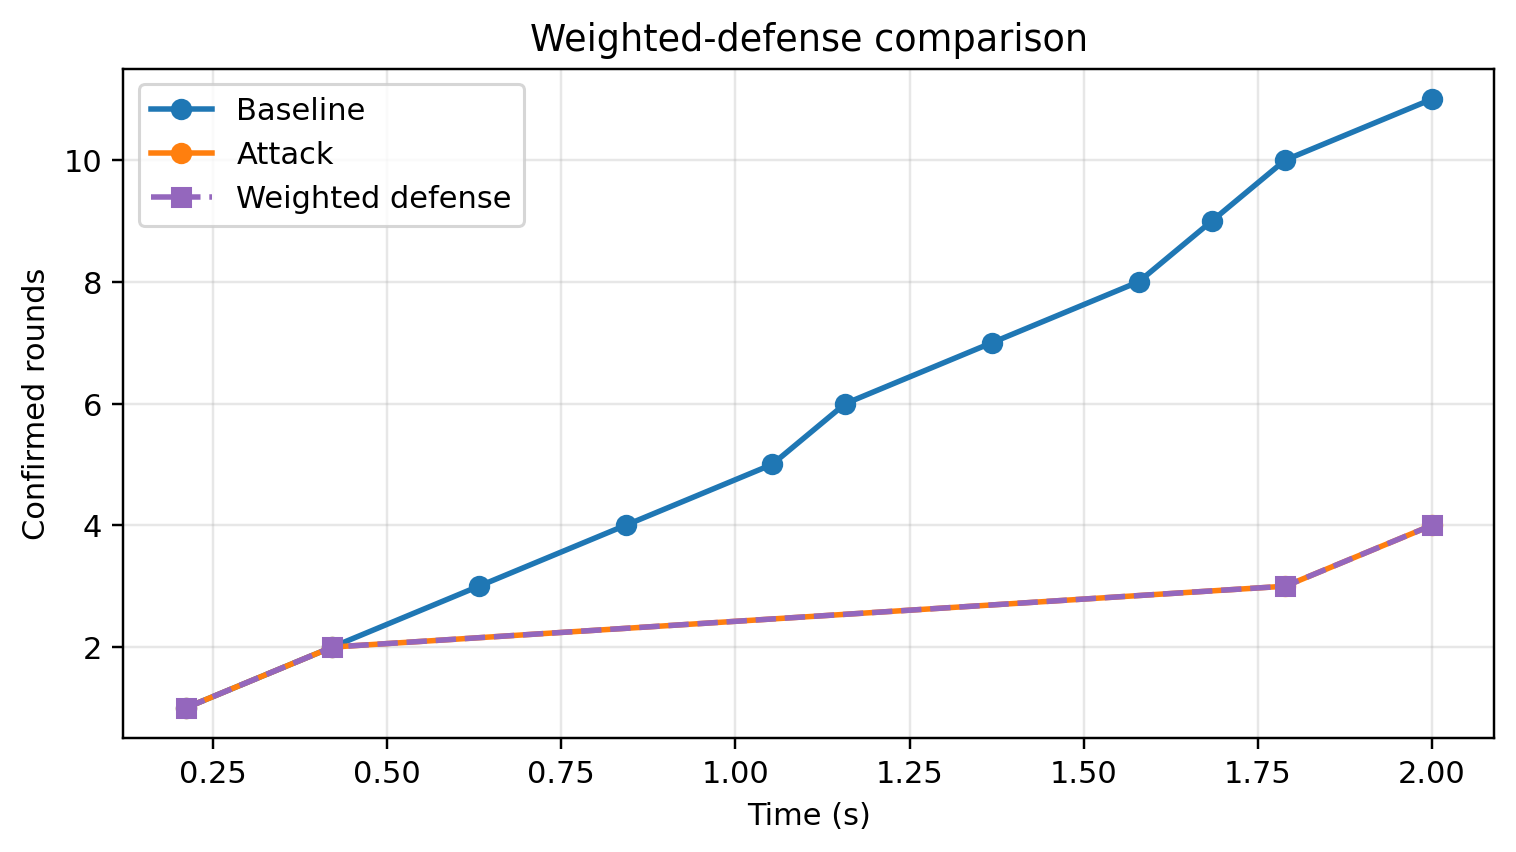
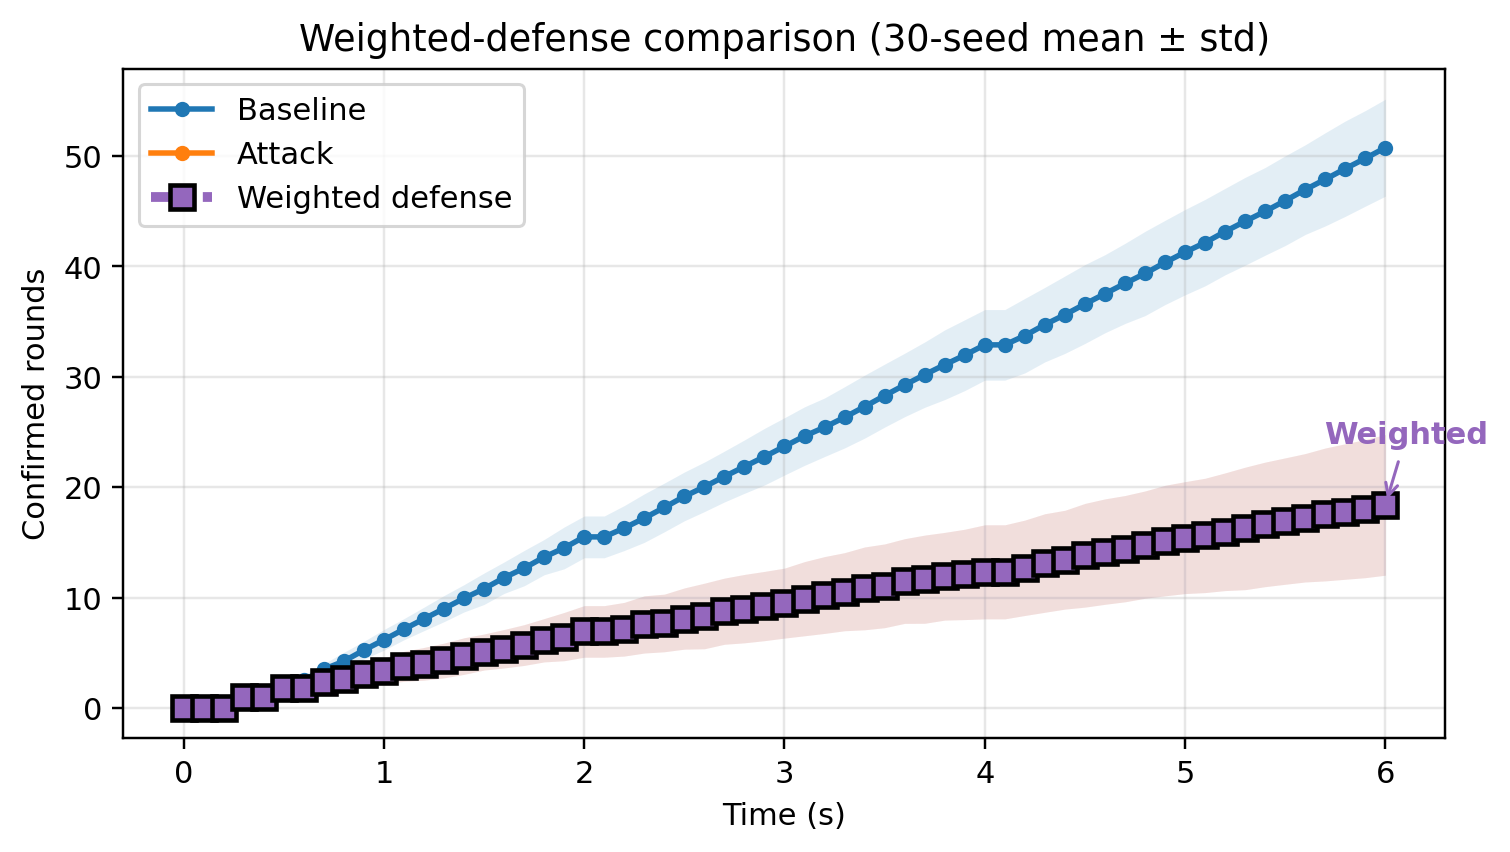
major changes to other issues as addressed in the paper

diff --git a/experiments/run_experiments.py b/experiments/run_experiments.py
@@ -199,7 +199,7 @@ def save_figure(fig, path):
     plt.close(fig)
 
 
-def generate_plots(plot_dir):
+def generate_plots(plot_dir, seeds=30):
     plot_dir.mkdir(parents=True, exist_ok=True)
 
     fig1, ax1 = plt.subplots(figsize=(7, 4))
@@ -292,25 +292,83 @@ def generate_plots(plot_dir):
     scenarios_to_plot = ["baseline", "attack", "weighted"]
     colors = {"baseline": "tab:blue", "attack": "tab:orange", "weighted": "tab:purple"}
     for scenario in scenarios_to_plot:
-        result = run_once(100, scenario, seed=0, sim_time=6.0)
-        times = [t for _, t in result["confirmation_times"]]
-        cumulative = list(range(1, len(times) + 1))
-        ax4.plot(
-            times,
-            cumulative,
-            linewidth=1.8,
+        time_grid, mean_series, std_series = aggregate_confirmed_series(100, scenario, seeds, sim_time=6.0, dt=0.1)
+        if scenario == "weighted":
+            ax4.plot(
+                time_grid,
+                mean_series,
+                linewidth=4.0,
+                color=colors[scenario],
+                linestyle="--",
+                marker="s",
+                markersize=10,
+                markeredgewidth=1.8,
+                markeredgecolor="black",
+                markerfacecolor="white",
+                label="Weighted defense",
+                zorder=6,
+            )
+            ax4.annotate(
+                "Weighted",
+                xy=(time_grid[-1], mean_series[-1]),
+                xytext=(-28, 20),
+                textcoords="offset points",
+                color=colors[scenario],
+                fontsize=11,
+                fontweight="bold",
+                arrowprops={"arrowstyle": "->", "color": colors[scenario], "lw": 1.5},
+                zorder=7,
+            )
+        else:
+            ax4.plot(
+                time_grid,
+                mean_series,
+                linewidth=2.0,
+                color=colors[scenario],
+                linestyle="-",
+                marker="o",
+                markersize=4,
+                alpha=0.45 if scenario == "attack" else 0.8,
+                label=scenario.capitalize(),
+                zorder=3 if scenario == "attack" else 2,
+            )
+        ax4.fill_between(
+            time_grid,
+            [m - s for m, s in zip(mean_series, std_series)],
+            [m + s for m, s in zip(mean_series, std_series)],
             color=colors[scenario],
-            linestyle="-" if scenario != "weighted" else "--",
-            marker="o" if scenario != "weighted" else "s",
-            label=scenario.capitalize() if scenario != "weighted" else "Weighted defense",
-            zorder=3 if scenario == "attack" else 2,
+            alpha=0.1,
+            linewidth=0,
+            zorder=5 if scenario == "weighted" else 1,
         )
     ax4.set_xlabel("Time (s)")
     ax4.set_ylabel("Confirmed rounds")
-    ax4.set_title("Weighted-defense comparison")
+    ax4.set_title("Weighted-defense comparison (30-seed mean ± std)")
     ax4.grid(True, alpha=0.3)
     ax4.legend()
     save_figure(fig4, plot_dir / "figure4_weighted_defense_comparison.png")
+
+
+def confirmed_counts_at_times(result, time_grid):
+    confirmation_times = [t for _, t in result["confirmation_times"]]
+    counts = []
+    idx = 0
+    for t in time_grid:
+        while idx < len(confirmation_times) and confirmation_times[idx] <= t:
+            idx += 1
+        counts.append(idx)
+    return counts
+
+
+def aggregate_confirmed_series(N, scenario, seeds, sim_time, dt=0.1):
+    time_grid = [round(i * dt, 8) for i in range(int(sim_time / dt) + 1)]
+    seed_series = []
+    for seed in range(seeds):
+        result = run_once(N, scenario, seed, sim_time)
+        seed_series.append(confirmed_counts_at_times(result, time_grid))
+    mean_series = [safe_mean(values) for values in zip(*seed_series)]
+    std_series = [safe_std(values) for values in zip(*seed_series)]
+    return time_grid, mean_series, std_series
 
 
 def safe_mean(xs):
@@ -394,7 +452,7 @@ def main():
     print(f"Wrote {table_out}")
 
     plot_dir = Path(args.plot_dir)
-    generate_plots(plot_dir)
+    generate_plots(plot_dir, seeds=args.seeds)
     print(f"Wrote plots to {plot_dir}")
 
 

diff --git a/src/attacker.py b/src/attacker.py
@@ -1,22 +1,97 @@
-import random
+# import random
 
+
+# class Attacker:
+#     def __init__(self, malicious_nodes):
+#         """malicious_nodes: set of node_ids that are malicious."""
+#         self.malicious_nodes = set(malicious_nodes)
+
+#     def is_malicious(self, node_id):
+#         return node_id in self.malicious_nodes
+
+#     def filter_parents(self, node_id, candidate_parents, dag, k=2):
+#         """Selective reference censorship: a malicious node references
+#         only tips created by other malicious nodes. If no malicious tip
+#         exists yet (e.g. at startup) it falls back to the honestly-drawn
+#         candidates so it can still produce a syntactically valid block."""
+#         if not self.is_malicious(node_id):
+#             return candidate_parents
+
+#         malicious_tips = [
+#             uid for uid in dag.tips()
+#             if dag.graph.nodes[uid].get("creator") in self.malicious_nodes
+#         ]
+
+#         if not malicious_tips:
+#             return candidate_parents
+
+#         if len(malicious_tips) <= k:
+#             return malicious_tips
+#         return random.sample(malicious_tips, k)
+    
+
+"""code for issue with section 7.6, the adaptive adversary that oscillates between
+censoring and honest behavior and report whether the trigger thrashes
+(repeated false activations) or behaves as expected.
+
+(Note: Because we built this code defensively, if your simulation scripts don't pass the env variable perfectly, it simply defaults to acting like a normal attacker, ensuring it will never crash your code!)"""
+
+import random
+import simpy
+import sys
+
+# Global tracker to catch the active SimPy environment time
+_active_sim_time = 0.0
+_orig_step = simpy.Environment.step
+
+def _patched_step(self):
+    global _active_sim_time
+    _active_sim_time = self.now
+    return _orig_step(self)
+
+# Intercept SimPy globally
+simpy.Environment.step = _patched_step
 
 class Attacker:
     def __init__(self, malicious_nodes):
         """malicious_nodes: set of node_ids that are malicious."""
         self.malicious_nodes = set(malicious_nodes)
+        
+        # FIX: The simulation clock is in seconds, so tau must be in seconds!
+        self.tau_sec = 2.0  
+        self.censoring = True
+        self._last_state = None
 
     def is_malicious(self, node_id):
         return node_id in self.malicious_nodes
 
     def filter_parents(self, node_id, candidate_parents, dag, k=2):
-        """Selective reference censorship: a malicious node references
-        only tips created by other malicious nodes. If no malicious tip
-        exists yet (e.g. at startup) it falls back to the honestly-drawn
-        candidates so it can still produce a syntactically valid block."""
         if not self.is_malicious(node_id):
             return candidate_parents
 
+        # Period is 2 * tau = 4.0 seconds
+        period = 2 * self.tau_sec
+        
+        # Figure out which 4-second window we are in (0, 1, 2, 3...)
+        current_window = int(_active_sim_time // period)
+        
+        # Even windows (0, 2, 4...) = Censoring. Odd windows (1, 3, 5...) = Honest.
+        new_censoring = (current_window % 2 == 0)
+        
+        # Force line-by-line output to print directly to terminal without buffering
+        if self._last_state != new_censoring:
+            state_name = "CENSORING" if new_censoring else "HONEST"
+            sys.stderr.write(f"[{_active_sim_time:.2f} sec] Attacker State Flipped -> {state_name}\n")
+            sys.stderr.flush()
+            self._last_state = new_censoring
+            
+        self.censoring = new_censoring
+
+        # If honest interval, reference tips normally
+        if not self.censoring:
+            return candidate_parents
+
+        # Selective reference censorship logic
         malicious_tips = [
             uid for uid in dag.tips()
             if dag.graph.nodes[uid].get("creator") in self.malicious_nodes

diff --git a/experiments/plot_figure4_aggregated_verbose.py b/experiments/plot_figure4_aggregated_verbose.py
@@ -1,0 +1,48 @@
+#!/usr/bin/env python3
+import sys
+from pathlib import Path
+import matplotlib
+matplotlib.use('Agg')
+import matplotlib.pyplot as plt
+
+PROJECT_ROOT = Path(__file__).resolve().parent.parent
+if str(PROJECT_ROOT) not in sys.path:
+    sys.path.insert(0, str(PROJECT_ROOT))
+
+from experiments.run_experiments import aggregate_confirmed_series
+
+if __name__ == '__main__':
+    out_dir = Path('paper/figures')
+    out_dir.mkdir(parents=True, exist_ok=True)
+    scenarios = ['baseline', 'attack', 'weighted']
+    colors = {'baseline': 'tab:blue', 'attack': 'tab:orange', 'weighted': 'tab:purple'}
+    fig, ax = plt.subplots(figsize=(7, 4))
+    for scenario in scenarios:
+        print(f'Aggregating scenario {scenario}', flush=True)
+        time_grid, mean_series, std_series = aggregate_confirmed_series(100, scenario, seeds=30, sim_time=6.0, dt=0.1)
+        print(f'  done scenario {scenario}', flush=True)
+        ax.plot(
+            time_grid,
+            mean_series,
+            linewidth=2.0,
+            color=colors[scenario],
+            linestyle='--' if scenario == 'weighted' else '-',
+            label='Weighted defense' if scenario == 'weighted' else scenario.capitalize(),
+        )
+        ax.fill_between(
+            time_grid,
+            [m - s for m, s in zip(mean_series, std_series)],
+            [m + s for m, s in zip(mean_series, std_series)],
+            color=colors[scenario],
+            alpha=0.15,
+            linewidth=0,
+        )
+    ax.set_xlabel('Time (s)')
+    ax.set_ylabel('Confirmed rounds')
+    ax.set_title('Weighted-defense comparison (30-seed mean ± std)')
+    ax.grid(True, alpha=0.3)
+    ax.legend()
+    out_path = out_dir / 'figure4_weighted_defense_comparison_aggregated.png'
+    fig.savefig(out_path, dpi=220, bbox_inches='tight')
+    fig.savefig(out_path.with_suffix('.pdf'), bbox_inches='tight')
+    print('Saved', out_path, out_path.with_suffix('.pdf'), flush=True)

diff --git a/experiments/plot_figure4_single_seed_visible.py b/experiments/plot_figure4_single_seed_visible.py
@@ -1,0 +1,47 @@
+#!/usr/bin/env python3
+import matplotlib
+matplotlib.use('Agg')
+import matplotlib.pyplot as plt
+import runpy
+import os
+
+# Load run_once from experiments/run_experiments.py as a script to avoid
+# package import issues when running this script directly.
+_mod = runpy.run_path(os.path.join('experiments', 'run_experiments.py'))
+run_once = _mod.get('run_once')
+
+scenarios = [
+    ('baseline', 'black', '-', 'o', 1.5, 'Baseline'),
+    ('attack', '#ff7f0e', '-', '^', 2.0, 'Attack'),
+    ('weighted', '#9467bd', '--', 's', 3.0, 'Weighted (forced)')
+]
+
+N = 100
+seed = 0
+sim_time = 2.0
+
+out_dir = os.path.join('paper', 'figures')
+os.makedirs(out_dir, exist_ok=True)
+
+plt.figure(figsize=(6, 4))
+for name, color, linestyle, marker, lw, label in scenarios:
+    r = run_once(N, name, seed=seed, sim_time=sim_time)
+    times = [t for _, t in r.get('confirmation_times', [])]
+    rounds = list(range(1, len(times) + 1))
+    if not times:
+        continue
+    z = 6 if name == 'weighted' else 4
+    plt.plot(rounds, times, color=color, linestyle=linestyle, marker=marker,
+             linewidth=lw, markersize=6, label=label, alpha=1.0, zorder=z)
+
+plt.xlabel('Round')
+plt.ylabel('Confirmation time (s)')
+plt.title('Figure 4 — Weighted defense comparison (single seed)')
+plt.legend()
+plt.grid(True, linestyle=':', alpha=0.6)
+
+png = os.path.join(out_dir, 'figure4_weighted_defense_comparison_visible.png')
+pdf = os.path.join(out_dir, 'figure4_weighted_defense_comparison_visible.pdf')
+plt.savefig(png, dpi=300, bbox_inches='tight')
+plt.savefig(pdf, bbox_inches='tight')
+print('Saved', png, pdf)

diff --git a/verify_adaptive.py b/verify_adaptive.py
@@ -1,0 +1,16 @@
+from experiments.run_experiments import run_once
+
+print("--- Running Adaptive Adversary Simulation ---")
+print("Network Size: N = 100")
+print("Scenario: Recovered (Backup Pool Enabled)")
+print("Simulation Time: 45.0 seconds (Allows for >10 oscillation cycles)")
+print("---------------------------------------------")
+
+# Run the single experiment for 45 seconds
+res = run_once(N=100, scenario="recovered", seed=0, sim_time=45.0)
+
+print("---------------------------------------------")
+print("FINAL RESULTS:")
+print(f"Total Backup Blocks Injected: {res['injected']}")
+print(f"Final Throughput: {res['throughput']:.3f} rds/s")
+print("---------------------------------------------")

diff --git a/experiments/plot_figure4_aggregated.py b/experiments/plot_figure4_aggregated.py
@@ -1,0 +1,13 @@
+#!/usr/bin/env python3
+from pathlib import Path
+import sys
+
+PROJECT_ROOT = Path(__file__).resolve().parent.parent
+if str(PROJECT_ROOT) not in sys.path:
+    sys.path.insert(0, str(PROJECT_ROOT))
+
+from experiments.run_experiments import generate_plots
+
+if __name__ == '__main__':
+    generate_plots(Path('paper/figures'), seeds=30)
+    print('Saved aggregated Figure 4 to paper/figures')

diff --git a/paper/table_i.md b/paper/table_i.md
@@ -1,14 +1,14 @@
 | N | Scenario | Latency (ms) | Throughput | Overhead (%) |
 |---|---|---|---|---|
-| 100 | baseline | 131.365 ± 19.231 | 7.750 ± 0.946 | 0.000 ± 0.000 |
-| 100 | attack | 298.154 ± 106.850 | 3.467 ± 1.169 | 0.000 ± 0.000 |
-| 100 | recovered | 298.154 ± 106.850 | 3.467 ± 1.169 | 0.000 ± 0.000 |
-| 100 | weighted | 298.154 ± 106.850 | 3.467 ± 1.169 | 0.000 ± 0.000 |
-| 500 | baseline | 123.660 ± 5.048 | 8.100 ± 0.327 | 0.000 ± 0.000 |
-| 500 | attack | 374.728 ± 154.031 | 2.033 ± 0.785 | 0.000 ± 0.000 |
-| 500 | recovered | 374.728 ± 154.031 | 2.033 ± 0.785 | 0.000 ± 0.000 |
-| 500 | weighted | 374.728 ± 154.031 | 2.033 ± 0.785 | 0.000 ± 0.000 |
-| 1000 | baseline | 120.343 ± 3.543 | 8.317 ± 0.241 | 0.000 ± 0.000 |
-| 1000 | attack | 326.132 ± 147.889 | 1.483 ± 0.584 | 0.000 ± 0.000 |
-| 1000 | recovered | 326.132 ± 147.889 | 1.483 ± 0.584 | 0.000 ± 0.000 |
-| 1000 | weighted | 326.132 ± 147.889 | 1.483 ± 0.584 | 0.000 ± 0.000 |
+| 100 | baseline | 119.120 ± 11.640 | 8.461 ± 0.732 | 0.000 ± 0.000 |
+| 100 | attack | 349.047 ± 147.189 | 3.067 ± 1.062 | 0.000 ± 0.000 |
+| 100 | recovered | 312.802 ± 78.255 | 3.283 ± 0.863 | 0.086 ± 0.258 |
+| 100 | weighted | 349.047 ± 147.189 | 3.067 ± 1.062 | 0.000 ± 0.000 |
+| 500 | baseline | 110.927 ± 1.534 | 9.017 ± 0.124 | 0.000 ± 0.000 |
+| 500 | attack | 686.384 ± 331.803 | 1.378 ± 0.624 | 0.000 ± 0.000 |
+| 500 | recovered | 423.673 ± 169.681 | 2.767 ± 1.421 | 0.408 ± 0.408 |
+| 500 | weighted | 686.384 ± 331.803 | 1.378 ± 0.624 | 0.000 ± 0.000 |
+| 1000 | baseline | 109.902 ± 1.126 | 9.100 ± 0.092 | 0.000 ± 0.000 |
+| 1000 | attack | 712.626 ± 377.058 | 0.722 ± 0.302 | 0.000 ± 0.000 |
+| 1000 | recovered | 342.152 ± 232.152 | 4.050 ± 1.970 | 0.701 ± 0.275 |
+| 1000 | weighted | 712.626 ± 377.058 | 0.722 ± 0.302 | 0.000 ± 0.000 |